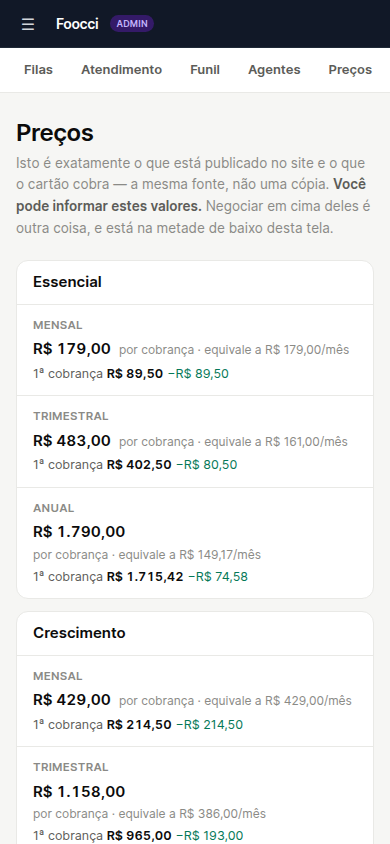
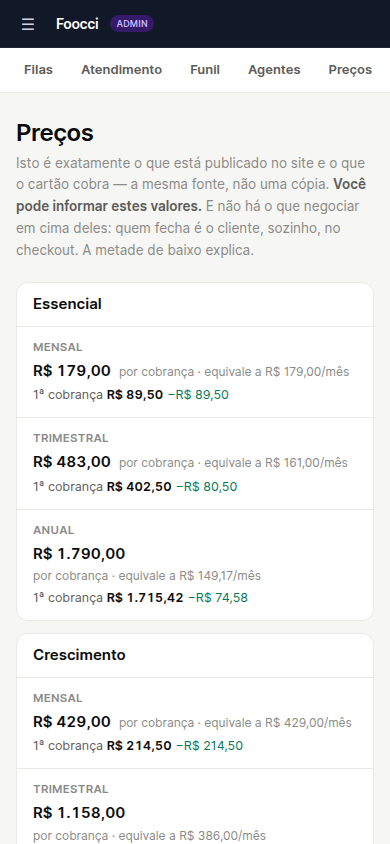
Quem fecha é o checkout — e a resposta apagou três perguntas
Decisão do CEO, 25/08/2026, em palavras dele: "quem fecha é o SDR que dá o
link do site pra ele fechar por lá. Quem fecha é o checkout, o cliente no
próprio checkout."

Ninguém do time fecha. E daí saem três respostas que não são política,
são MECÂNICA — vêm do que o sistema faz, não de uma opinião que ainda
faltasse alguém ter:

  · desconto além da tabela — não existe CAMINHO para conceder. O checkout
    cobra `PLAN_CYCLE_CENTS`; não há campo, tela ou rota por onde um
    vendedor conceda outra coisa. Não é que a alçada seja zero: é que não
    há alavanca.

  · forma de pagamento — `MercadoPagoPlatformBilling` cria `preapproval`,
    que é assinatura recorrente: cartão de crédito, e só. Não há boleto
    nem PIX a oferecer porque a recorrência não os aceita. Prometer um dos
    dois é promessa que quebra na hora da cobrança.

  · alçada para condição fora do padrão — não existe condição fora do
    padrão quando o cliente contrata sozinho na tabela publicada.

`EM_ABERTO` foi de quatro itens para UM: prazo de implantação. As três
saíram de "recusa com decide: CEO" para resposta informável — e a
distinção está travada em teste: elas NÃO viraram "pode negociar",
viraram "a máquina faz assim". O vendedor informa, como informa o preço.

A economia real aparece no handoff: três interrupções a menos por
conversa, e o teste afirma isso item a item.

⚠ Escrito no código e no backlog: se aparecer cupom, contrato manual ou
[…]

Changed region(s): [[0.0308, 0.2156, 0.9538, 1.0]]

diff --git a/src/services/salaDeVendas/precos.test.ts b/src/services/salaDeVendas/precos.test.ts
@@ -115,50 +115,90 @@ describe("o portão: o que a Sala pode dizer sobre dinheiro", () => {
     expect(descontoPublicado().sabe).toBe(true);
   });
 
-  it("desconto ALÉM da tabela é recusado, e diz quem decide", () => {
-    const r = responderSobrePreco("descontoAlemDaTabela");
-    expect(r.podeResponder).toBe(false);
-    expect(r.decideQuem).toContain("CEO");
-    // A recusa carrega o porquê. Uma recusa sem motivo obriga o humano a começar
-    // a conversa do zero, que é o defeito que o dossiê de handoff existe para
-    // evitar.
-    expect(r.motivo?.length ?? 0).toBeGreaterThan(20);
-  });
-
-  it("prazo, forma de pagamento e alçada também são recusados", () => {
-    for (const assunto of ["prazoDeImplantacao", "formaDePagamento", "quemPodeFechar"] as const) {
+  /**
+   * ── AS TRÊS QUE O CHECKOUT RESPONDEU (CEO, 25/08/2026) ────────────────────
+   *
+   * Estes casos afirmavam o contrário há uma rodada: desconto, forma de
+   * pagamento e alçada eram recusas com "decide: CEO". O CEO respondeu quem
+   * fecha — *"quem fecha é o checkout, o cliente no próprio checkout"* — e as
+   * três deixaram de ser perguntas.
+   *
+   * A distinção que estes testes guardam: elas não viraram "pode negociar".
+   * Viraram "a máquina faz assim". O vendedor informa, como informa o preço.
+   */
+  it("as três respostas do checkout são informáveis, e não recusas", () => {
+    for (const assunto of ["comoFecha", "descontoAlemDaTabela", "formaDePagamento"] as const) {
       const r = responderSobrePreco(assunto);
-      expect(r.podeResponder, assunto).toBe(false);
-      expect(r.decideQuem, assunto).toBeTruthy();
-      expect(r.motivo, assunto).toBeTruthy();
-      // E não vaza tabela junto com a recusa.
-      expect(r.tabela, assunto).toBeUndefined();
+      expect(r.podeResponder, assunto).toBe(true);
+      expect(r.resposta?.length ?? 0, assunto).toBeGreaterThan(20);
+      // Nenhuma delas vira "decide: fulano" — não há mais o que decidir.
+      expect(r.decideQuem, assunto).toBeUndefined();
+      expect(r.motivo, assunto).toBeUndefined();
     }
   });
 
-  it("o motivo de handoff vem escrito quando não se pode responder, e vazio quando se pode", () => {
+  it("desconto além da tabela é respondido pela MECÂNICA, não por uma alçada", () => {
+    // A frase importa: se um dia isto virar "o gerente pode até X%", alguém
+    // abriu um caminho de exceção — e aí as três voltam a ser perguntas.
+    const r = responderSobrePreco("descontoAlemDaTabela");
+    expect(r.resposta).toContain("não existe caminho");
+    expect(r.resposta).toContain("tabela publicada");
+  });
+
+  it("forma de pagamento sai do que o Mercado Pago aceita na recorrência", () => {
+    const r = responderSobrePreco("formaDePagamento");
+    expect(r.resposta).toContain("cartão de crédito");
+    // Prometer boleto ou PIX numa assinatura recorrente é a promessa que
+    // quebra na hora da cobrança.
+    expect(r.resposta).toContain("Não há boleto nem PIX");
+  });
+
+  it("prazo de implantação CONTINUA sem resposta, e diz quem decide", () => {
+    // A que sobrou. Se ela sumir desta lista sem uma decisão registrada,
+    // alguém respondeu inventando uma data.
+    const r = responderSobrePreco("prazoDeImplantacao");
+    expect(r.podeResponder).toBe(false);
+    expect(r.decideQuem).toContain("CEO");
+    // A recusa carrega o porquê. Recusa sem motivo obriga quem pega o lead a
+    // começar a conversa do zero.
+    expect(r.motivo?.length ?? 0).toBeGreaterThan(20);
+    expect(r.tabela).toBeUndefined();
+  });
+
+  it("o motivo de handoff vem escrito só para o que continua em aberto", () => {
     expect(motivoDeHandoffPorPreco("tabela")).toBeNull();
     expect(motivoDeHandoffPorPreco("descontoPublicado")).toBeNull();
+    // As três do checkout deixaram de gerar handoff — e é essa a economia real
+    // da decisão: três interrupções a menos por conversa.
+    expect(motivoDeHandoffPorPreco("descontoAlemDaTabela")).toBeNull();
+    expect(motivoDeHandoffPorPreco("formaDePagamento")).toBeNull();
+    expect(motivoDeHandoffPorPreco("comoFecha")).toBeNull();
 
-    const m = motivoDeHandoffPorPreco("formaDePagamento");
+    const m = motivoDeHandoffPorPreco("prazoDeImplantacao");
     expect(m).toBeTruthy();
     expect(m).toContain("Decide:");
   });
 
-  it("`oQueAindaNaoSeSabe` lista tudo que está aberto, com dono", () => {
+  it("`oQueAindaNaoSeSabe` lista o que está aberto, com dono — e nada mais", () => {
     const abertos = oQueAindaNaoSeSabe();
     expect(abertos.length).toBeGreaterThan(0);
     for (const a of abertos) {
       expect(a.motivo, a.assunto).toBeTruthy();
       expect(a.decideQuem, a.assunto).toBeTruthy();
     }
-    // O item que o CEO corrigiu em 25/08 NÃO está aqui: preço de tabela é
-    // fechado e publicado. Se voltar para esta lista, alguém regrediu.
-    expect(abertos.map((a) => String(a.assunto))).not.toContain("tabela");
+
+    const nomes = abertos.map((a) => String(a.assunto));
+    // Preço de tabela é fechado e publicado (correção do CEO em 25/08).
+    expect(nomes).not.toContain("tabela");
+    // E as três que o checkout respondeu no mesmo dia. Se voltarem, foi porque
+    // apareceu um caminho de exceção — e aí a volta é correta, não regressão.
+    expect(nomes).not.toContain("descontoAlemDaTabela");
+    expect(nomes).not.toContain("formaDePagamento");
+    expect(nomes).not.toContain("quemPodeFechar");
   });
 
   it("`naoSei` devolve sempre a forma fechada, nunca um valor", () => {
-    const r = naoSei<string>("quemPodeFechar");
+    const r = naoSei<string>("prazoDeImplantacao");
     expect(r.sabe).toBe(false);
     if (!r.sabe) {
       expect(r.decideQuem).toBeTruthy();

diff --git a/src/services/salaDeVendas/precos.ts b/src/services/salaDeVendas/precos.ts
@@ -177,29 +177,54 @@ export function descontoPublicado(): Politica<DescontoPublicado> {
  * ou um vendedor apressado preencha o silêncio com algo plausível.
  */
 const EM_ABERTO = {
-  descontoAlemDaTabela: {
-    motivo:
-      "não existe alçada de desconto registrada. O único desconto fechado é o " +
-      "de 50% do primeiro mês; qualquer coisa além disso nunca foi decidida.",
-    decideQuem: "CEO",
-  },
   prazoDeImplantacao: {
     motivo:
       "não há prazo de implantação publicado. A página de preços trata " +
       "configuração como item sob consulta, e prometer data aqui seria inventar.",
     decideQuem: "CEO, com o Gerente de Operações do Cliente",
   },
-  formaDePagamento: {
-    motivo:
-      "as formas de pagamento aceitas não estão declaradas em lugar nenhum que " +
-      "a Sala possa ler, e o gateway pode nem estar configurado no ambiente.",
-    decideQuem: "CEO, com o Financeiro",
-  },
-  quemPodeFechar: {
-    motivo:
-      "não existe alçada registrada dizendo quem assina condição fora do padrão.",
-    decideQuem: "CEO",
-  },
+} as const;
+
+/**
+ * ── TRÊS PERGUNTAS QUE DEIXARAM DE EXISTIR (decisão do CEO, 25/08/2026) ──────
+ *
+ * Esta lista tinha quatro itens. O CEO respondeu **quem fecha** e a resposta
+ * apagou três de uma vez:
+ *
+ *   *"quem fecha é o SDR que dá o link do site pra ele fechar por lá. Quem
+ *    fecha é o checkout, o cliente no próprio checkout."*
+ *
+ * Ninguém do time fecha. O vendedor manda o link; o cliente contrata sozinho.
+ * E daí saem três respostas que **não são política, são mecânica** — vêm do que
+ * o sistema faz, não de uma opinião que alguém ainda precisasse ter:
+ *
+ * **Desconto além da tabela deixou de ser uma pergunta.** O checkout cobra
+ * `PLAN_CYCLE_CENTS`. Não existe campo, tela ou rota por onde um vendedor
+ * conceda outra coisa — o único abatimento é o meio mês do primeiro ciclo, e ele
+ * já está embutido. Não é que a alçada seja zero: é que não há caminho.
+ *
+ * **Forma de pagamento idem.** `MercadoPagoPlatformBilling` cria um
+ * `preapproval`, que é assinatura recorrente — cartão de crédito, e só. Não há
+ * boleto nem PIX a oferecer, porque recorrência no Mercado Pago não os aceita.
+ *
+ * **Alçada para condição fora do padrão idem.** Não existe condição fora do
+ * padrão a assinar quando o cliente contrata sozinho na tabela publicada.
+ *
+ * ⚠ **Se um dia alguém abrir um caminho de exceção** — cupom, contrato manual,
+ * cobrança fora do checkout — estas três voltam a ser perguntas em aberto no
+ * mesmo dia. Elas sumiram porque a máquina não tem a alavanca, não porque a
+ * pergunta foi respondida com um número.
+ */
+export const RESPONDIDO_PELO_CHECKOUT = {
+  quemFecha:
+    "o próprio cliente, no checkout. O vendedor manda o link do site; ninguém " +
+    "do time assina nada por ele.",
+  descontoAlemDaTabela:
+    "não existe caminho para conceder. O checkout cobra a tabela publicada, e o " +
+    "único abatimento — metade do primeiro mês — já vem embutido na primeira cobrança.",
+  formaDePagamento:
+    "cartão de crédito, na recorrência do Mercado Pago. Não há boleto nem PIX: " +
+    "assinatura recorrente não os aceita.",
 } as const;
 
 export type AssuntoEmAberto = keyof typeof EM_ABERTO;
@@ -228,10 +253,10 @@ export function naoSei<T>(assunto: AssuntoEmAberto): Politica<T> {
 export type AssuntoDePreco =
   | "tabela"
   | "descontoPublicado"
+  | "comoFecha"
   | "descontoAlemDaTabela"
-  | "prazoDeImplantacao"
   | "formaDePagamento"
-  | "quemPodeFechar";
+  | "prazoDeImplantacao";
 
 export interface RespostaSobrePreco {
   /** Pode falar? */
@@ -239,6 +264,8 @@ export interface RespostaSobrePreco {
   /** O que dizer, quando pode. */
   tabela?: PrecoDoPlano[];
   desconto?: DescontoPublicado;
+  /** A resposta pronta, quando ela vem do que o checkout faz. */
+  resposta?: string;
   /** Por que não, e para quem vai, quando não pode. */
   motivo?: string;
   decideQuem?: string;
@@ -270,6 +297,22 @@ export function responderSobrePreco(assunto: AssuntoDePreco): RespostaSobrePreco
         ? { podeResponder: true, desconto: d.valor }
         : { podeResponder: false, motivo: d.motivo, decideQuem: d.decideQuem };
     }
+
+    // As três que o checkout responde. NÃO são "pode negociar": são "a máquina
+    // faz assim, e não há outra alavanca". O vendedor informa, como informa o
+    // preço — e o portão continua sendo o único lugar por onde isso sai.
+    case "comoFecha":
+      return { podeResponder: true, resposta: RESPONDIDO_PELO_CHECKOUT.quemFecha };
+    case "descontoAlemDaTabela":
+      return {
+        podeResponder: true,
+        resposta: RESPONDIDO_PELO_CHECKOUT.descontoAlemDaTabela,
+      };
+    case "formaDePagamento":
+      return {
+        podeResponder: true,
+        resposta: RESPONDIDO_PELO_CHECKOUT.formaDePagamento,
+      };
 
     default: {
       const { motivo, decideQuem } = EM_ABERTO[assunto];

diff --git a/src/app/admin/(area)/sala-de-vendas/precos/page.tsx b/src/app/admin/(area)/sala-de-vendas/precos/page.tsx
@@ -34,6 +34,7 @@ import {
   tabelaPublicada,
   descontoPublicado,
   oQueAindaNaoSeSabe,
+  RESPONDIDO_PELO_CHECKOUT,
   type AssuntoEmAberto,
 } from "@/services/salaDeVendas/precos";
 
@@ -42,11 +43,31 @@ export const metadata = { title: "Preços · Sala de Vendas" };
 
 /** O nome da pergunta, do jeito que o lead faz. Não o nome da chave. */
 const COMO_O_LEAD_PERGUNTA: Record<AssuntoEmAberto, string> = {
-  descontoAlemDaTabela: "“Consegue fazer um preço melhor?”",
   prazoDeImplantacao: "“Em quanto tempo fica pronto?”",
-  formaDePagamento: "“Dá para pagar como?”",
-  quemPodeFechar: "“Quem me dá essa condição por escrito?”",
 };
+
+/**
+ * As três perguntas que o CHECKOUT responde.
+ *
+ * Estavam nesta tela como lacunas até 25/08/2026, quando o CEO respondeu quem
+ * fecha — e a resposta apagou as três de uma vez. O vendedor manda o link; o
+ * cliente contrata sozinho. Não sobra desconto a conceder, forma de pagamento a
+ * combinar, nem condição a assinar.
+ */
+const RESPONDE_A: Array<{ pergunta: string; resposta: string }> = [
+  {
+    pergunta: "“Quem fecha comigo?”",
+    resposta: RESPONDIDO_PELO_CHECKOUT.quemFecha,
+  },
+  {
+    pergunta: "“Consegue fazer um preço melhor?”",
+    resposta: RESPONDIDO_PELO_CHECKOUT.descontoAlemDaTabela,
+  },
+  {
+    pergunta: "“Dá para pagar como?”",
+    resposta: RESPONDIDO_PELO_CHECKOUT.formaDePagamento,
+  },
+];
 
 export default function PrecosDaSalaPage() {
   const planos = tabelaPublicada();
@@ -61,8 +82,9 @@ export default function PrecosDaSalaPage() {
           <p className="mt-1 max-w-[68ch] text-[13.5px] leading-relaxed text-muted">
             Isto é exatamente o que está publicado no site e o que o cartão cobra —
             a mesma fonte, não uma cópia. <strong className="text-ink2">Você pode
-            informar estes valores.</strong> Negociar em cima deles é outra coisa,
-            e está na metade de baixo desta tela.
+            informar estes valores.</strong> E não há o que negociar em cima
+            deles: quem fecha é o cliente, sozinho, no checkout. A metade de baixo
+            explica.
           </p>
         </header>
 
@@ -186,6 +208,37 @@ export default function PrecosDaSalaPage() {
           </section>
         )}
 
+        {/* ── AS TRÊS QUE O CHECKOUT RESPONDE ──────────────────────────────── */}
+        <section aria-labelledby="fecha-titulo" className="mb-6">
+          <h2
+            id="fecha-titulo"
+            className="text-[13px] font-semibold uppercase tracking-wide text-ink2"
+          >
+            Como se fecha — e por que não há o que negociar
+          </h2>
+          <p className="mt-1 max-w-[68ch] text-[13.5px] leading-relaxed text-muted">
+            <strong className="text-ink2">Quem fecha é o cliente, sozinho, no
+            checkout.</strong> Você manda o link do site. Isso não é só uma regra
+            de processo: é o que faz as três perguntas abaixo deixarem de existir
+            — a máquina não tem a alavanca, então não há o que conceder, combinar
+            ou assinar.
+          </p>
+
+          <ul className="mt-3 space-y-2">
+            {RESPONDE_A.map((r) => (
+              <li
+                key={r.pergunta}
+                className="rounded-xl border border-line bg-paper p-3.5"
+              >
+                <p className="text-[13.5px] font-semibold text-ink">{r.pergunta}</p>
+                <p className="mt-1 max-w-[68ch] text-[12.5px] leading-relaxed text-ink2">
+                  {r.resposta}
+                </p>
+              </li>
+            ))}
+          </ul>
+        </section>
+
         {/* ── O QUE A EMPRESA AINDA NÃO DECIDIU ────────────────────────────── */}
         <section aria-labelledby="abertos-titulo">
           <h2
@@ -195,11 +248,10 @@ export default function PrecosDaSalaPage() {
             O que você NÃO pode responder — e não é falha sua
           </h2>
           <p className="mt-1 max-w-[68ch] text-[13.5px] leading-relaxed text-muted">
-            Estas quatro perguntas aparecem em quase toda negociação e{" "}
-            <strong className="text-ink2">a empresa ainda não decidiu</strong>. Não
-            existe resposta certa guardada em algum lugar que você não achou.
-            Responder “vou confirmar e te trago hoje” é a saída profissional;
-            improvisar um número é o que vira problema na assinatura.
+            Sobrou <strong className="text-ink2">uma</strong>. Não existe resposta
+            certa guardada em algum lugar que você não achou. Responder “vou
+            confirmar e te trago hoje” é a saída profissional; improvisar uma data
+            é o que vira problema na implantação.
           </p>
 
           <ul className="mt-3 space-y-2">

diff --git a/docs/arquitetura-operacional-foocci-v3/11-BACKLOG.md b/docs/arquitetura-operacional-foocci-v3/11-BACKLOG.md
@@ -98,13 +98,32 @@ grava, e é por isso que ficou para depois em vez de ser feito pela metade.
 | Pergunta | O que acontece enquanto não vier |
 |---|---|
 | **Aprovar o PR #150** (é o "pedido de aprovação" do trabalho) | tudo continua em rascunho, fora do ar |
-| **Até quanto o vendedor pode dar de desconto além da tabela, prazo de implantação, formas de pagamento aceitas, e quem assina condição fora do padrão** | o vendedor responde preço normalmente, e trava na primeira exceção |
-| **Cadastrar o número na Meta** (o dono do WhatsApp) | a mensagem continua caindo no aparelho e sendo respondida à mão |
+| **As duas chaves da Meta estão salvas no Railway?** O número já está cadastrado — você confirmou. Salvar as chaves é o ato seguinte, e é outro | sem elas o "oi" continua caindo no aparelho e sendo respondido à mão. **Eu não enxergo o Railway daqui** |
+| **Prazo de implantação** — em quanto tempo o restaurante entra no ar | é a **única** pergunta de venda que sobrou sem resposta. O vendedor trava só nela |
 | **Decidir o destino do chip** — atender à mão hoje **ou** automatizar depois | os dois não cabem no mesmo número ao mesmo tempo. Decidir depois custa o histórico de conversa daquele aparelho |
 | **O e-mail que recebe pedido de ajuda está configurado?** | o cliente pede ajuda, o chamado é salvo e **ninguém é avisado** |
 | **Data para desligar a senha única do sistema** | senha que dá acesso a tudo e não identifica quem entrou. Sem data, fica para sempre |
-| **Quando soltar o vendedor de IA para falar com cliente** | é a última chave, e só depois de ver resultado |
+| **Ligar o vendedor de IA para responder sozinho** | hoje toda conversa é respondida por gente. Ligar é o CEO quem decide, e só depois de ver resultado |
 | **Uma conta de teste separada** | sem ela não dá para testar do começo ao fim sem mexer em dado de gente de verdade |
+
+### 🟢 Respondido em 25/08 — e a resposta apagou três perguntas
+
+> *"Quem fecha é o SDR que dá o link do site pra ele fechar por lá. Quem fecha é
+> o checkout, o cliente no próprio checkout."*
+
+Ninguém do time fecha. O vendedor manda o link; o cliente contrata sozinho. E daí
+saem três respostas que **não são política, são mecânica** — vêm do que o sistema
+faz, não de uma opinião que ainda faltasse:
+
+| Pergunta que sumiu | Por que sumiu |
+|---|---|
+| Até quanto dar de desconto | **não existe caminho para conceder.** O checkout cobra a tabela; o único abatimento (metade do primeiro mês) já vem embutido |
+| Formas de pagamento aceitas | **cartão de crédito**, na recorrência do Mercado Pago. Assinatura recorrente não aceita boleto nem PIX |
+| Quem assina condição fora do padrão | não existe condição fora do padrão quando o cliente contrata sozinho na tabela publicada |
+
+⚠ **Se um dia aparecer cupom, contrato manual ou cobrança fora do checkout**, as
+três voltam a ser perguntas no mesmo dia. Elas sumiram porque a máquina não tem a
+alavanca — não porque foram respondidas com um número.
 
 ---
 
